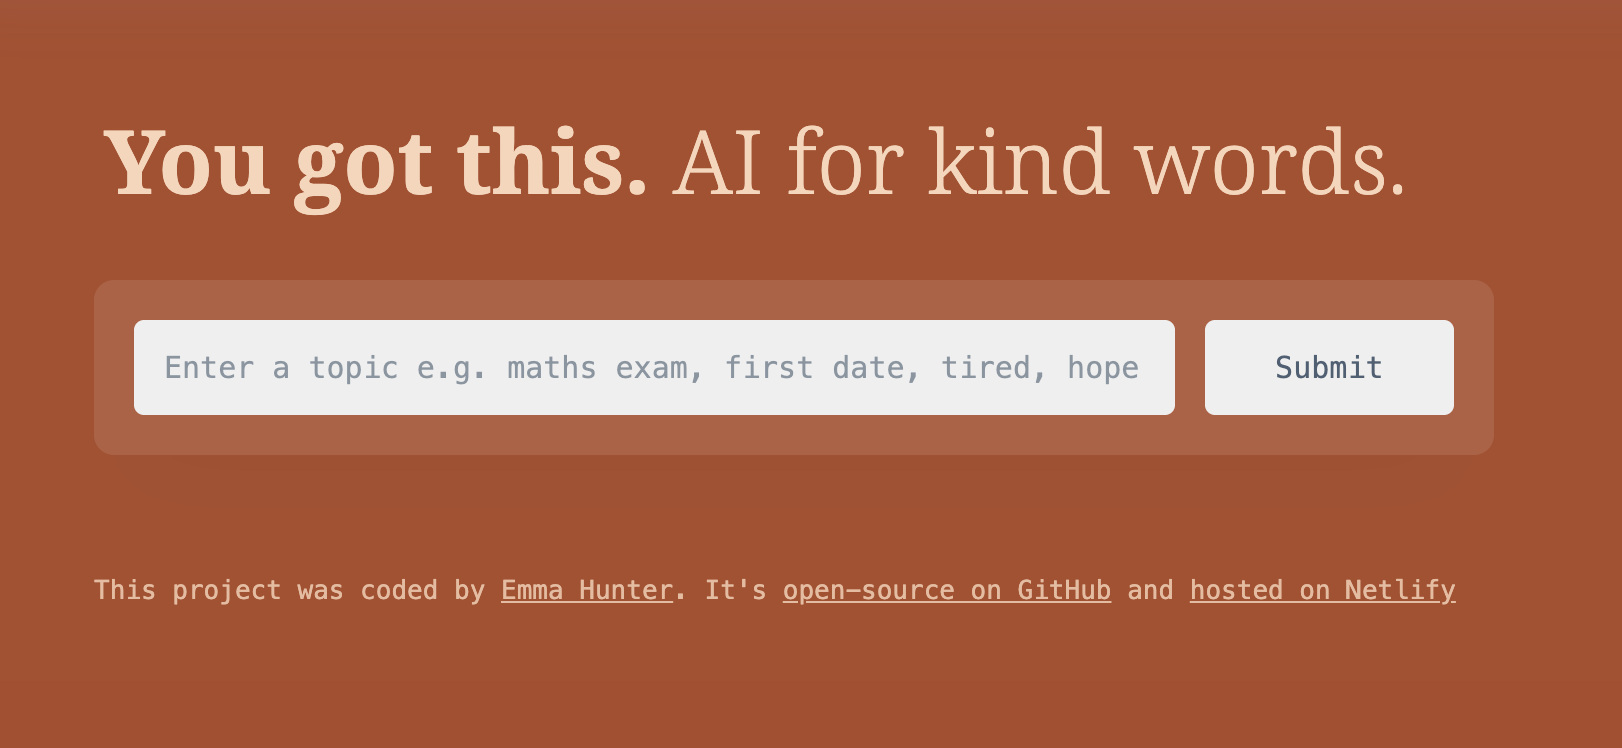
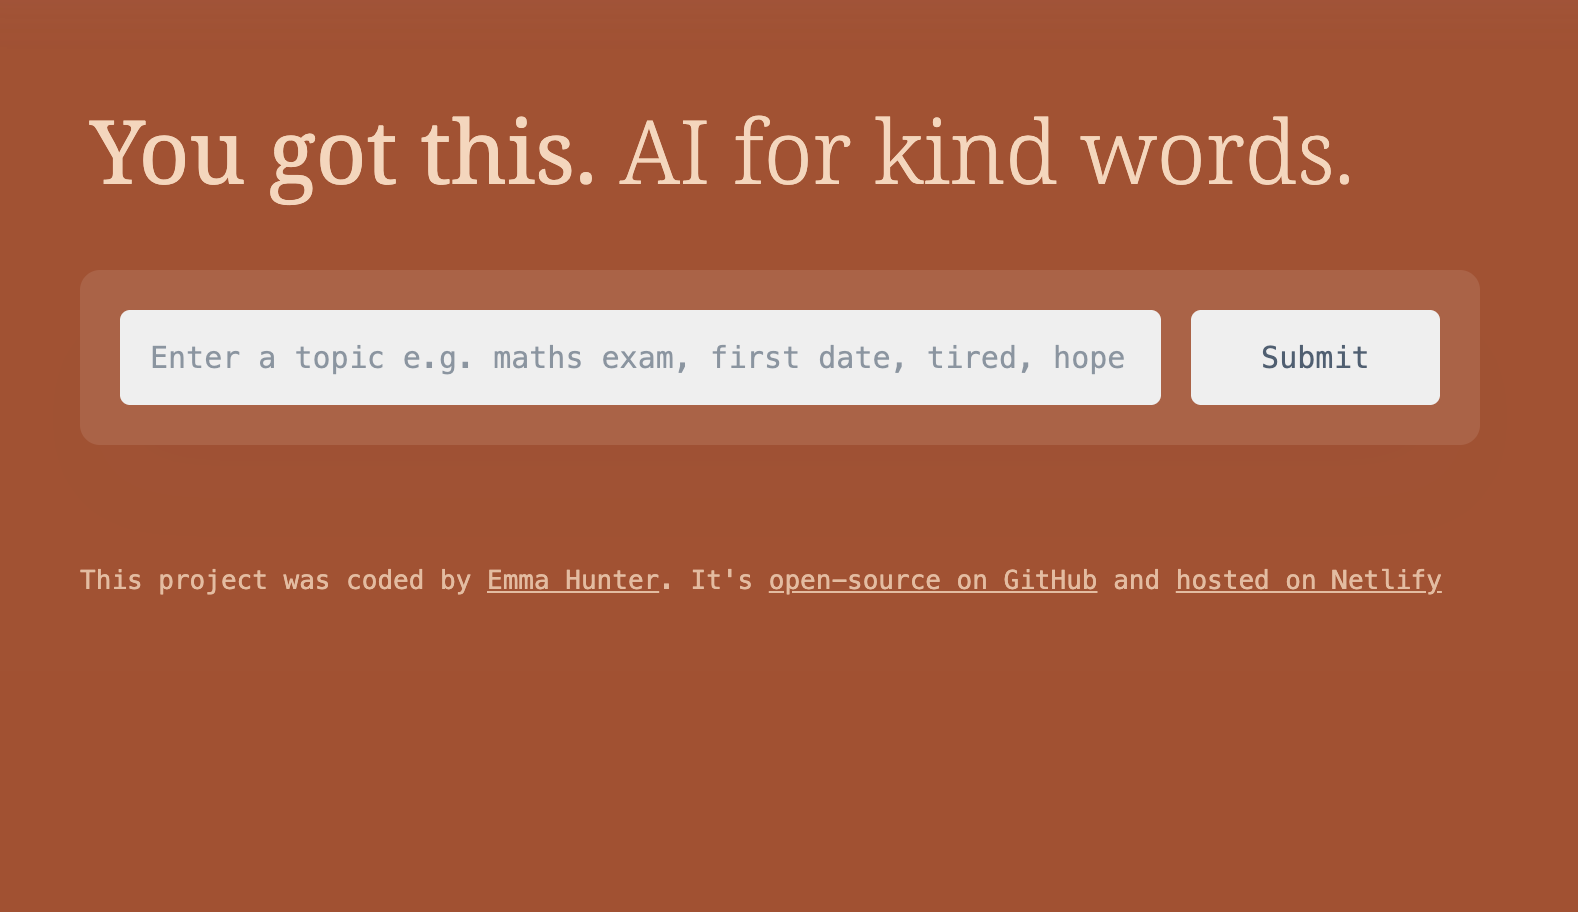
Updated kindness app img to keep consistent img sizes, updated col to sm not md, tweaked some margins

diff --git a/about.html b/about.html
@@ -85,7 +85,7 @@
     -->
     <div class="about-img-grid">
       <div class="row">
-        <div class="col-md-4 p-3">
+        <div class="col-sm-4 p-3">
           <a
             href="https://www.shecodes.io/cohorts/2437/projects/2570569?_gl=1*2uu1na*_gcl_au*MTI0MTg5MTAwMy4xNzQzOTQ0OTA5LjEzNTEzNTQxMC4xNzQ4ODc5NTczLjE3NDg4Nzk1OTI."
             target="_blank"
@@ -98,7 +98,7 @@
             />
           </a>
         </div>
-        <div class="col-md-4 p-3">
+        <div class="col-sm-4 p-3">
           <a
             href="https://www.shecodes.io/cohorts/2399/projects/2567385?_gl=1*2uu1na*_gcl_au*MTI0MTg5MTAwMy4xNzQzOTQ0OTA5LjEzNTEzNTQxMC4xNzQ4ODc5NTczLjE3NDg4Nzk1OTI."
             target="_blank"
@@ -111,7 +111,7 @@
             />
           </a>
         </div>
-        <div class="col-md-4 p-3">
+        <div class="col-sm-4 p-3">
           <a
             href="https://www.shecodes.io/cohorts/2448/projects/2578390?_gl=1*12gef6g*_gcl_au*MTI0MTg5MTAwMy4xNzQzOTQ0OTA5LjEzNTEzNTQxMC4xNzQ4ODc5NTczLjE3NDg4Nzk1OTI."
             target="_blank"

diff --git a/index.html b/index.html
@@ -21,13 +21,14 @@ Add SEO
 Separate contact page - DONE
 Update mobile friendly design
     Add some space beneath launch buttons - DONE
-    Reduce header text size
-    Reduce sub header
-    Reduce paragraph text size?
-    Hide contact and about buttons on small screen
+    Reduce header text size - DONE
+    Reduce sub header - DONE
+    Reduce paragraph text size? - DONE
+    Hide contact and about buttons on small screen - DONE
 Improve css?
     Make homepage images smaller (Change size of grid columns for smaller images) - DONE
     More space around parapraphs? DONE
+Over engineering the code and css? Solution video is much simpler...
 -->
 
 <!DOCTYPE html>

diff --git a/css/style.css b/css/style.css
@@ -7,6 +7,8 @@
 body {
   margin-top: 100px;
   margin-bottom: 30px;
+  margin-left: 20px;
+  margin-right: 20px;
 }
 
 /* Formatting for headers */
@@ -54,8 +56,8 @@ p {
   padding-bottom: 20px;
 }
 
-.about-paragraph {
-  display: flex;
+.about-paragraph p {
+  text-align: left;
 }
 
 /* Formatting for About me and Contact links/buttons */
